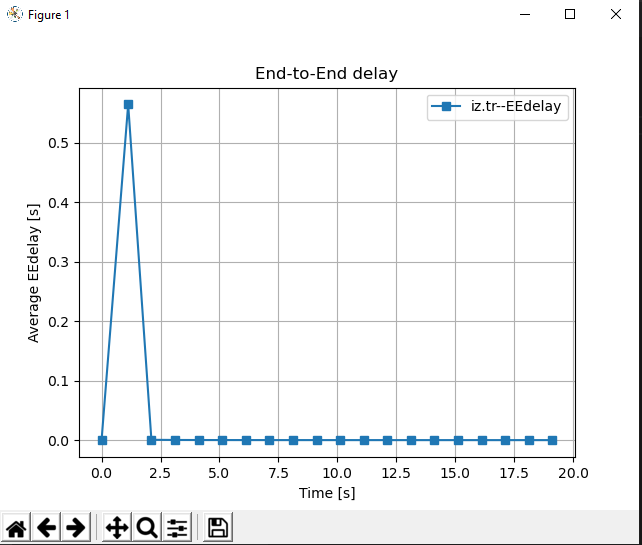
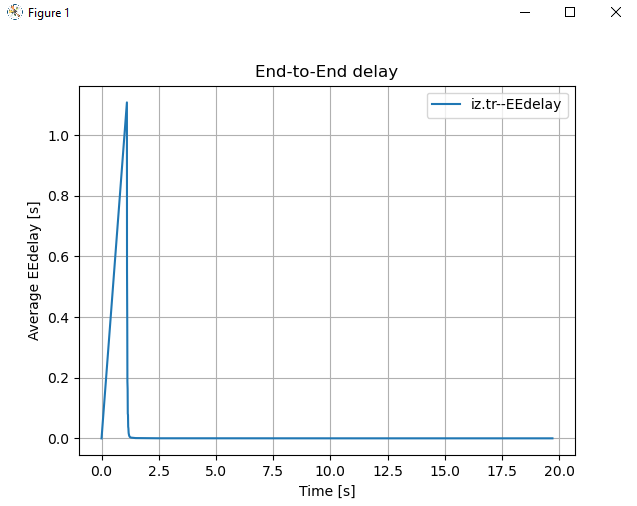
normalized yapıldı

diff --git a/main.py b/main.py
@@ -24,10 +24,8 @@ sadd_idx='$10'
 dadd_idx='$11'
 
 class Eedelay(object):
-       
-    
     #initialization
-    def __init__(self,filename,receiver_node):
+    def __init__(self,filename):
         """Initialises a Eedelay
 
         Arguments:
@@ -44,7 +42,10 @@ class Eedelay(object):
             #filename with directory
             self.legend=filename+'--EEdelay'
             self.filename=directory+'/'+filename
-        self.receiver_node=receiver_node
+            self.rc1='1' 
+            self.rc2='16'
+            self.rc3='20' 
+            self.rc4='21' 
         
         #network parameters
         self.ptype1='tcp' #for tcp packet
@@ -76,7 +77,8 @@ class Eedelay(object):
             #network parameter    
             for record in reader:
                 #for receiver node
-                if((record[event_idx]==self.event) and ((record[ptype_idx]==self.ptype1)or (record[ptype_idx]==self.ptype2)) and ((record[rc_idx]==self.receiver_node)) ):
+                if((record[event_idx]==self.event) and ((record[ptype_idx]==self.ptype1)or (record[ptype_idx]==self.ptype2)) 
+                   and ((record[rc_idx]==self.rc1) or (record[rc_idx]==self.rc2) or (record[rc_idx]==self.rc3) or (record[rc_idx]==self.rc4)) ):
                     time=float(record[time_idx])
                     interval=time-oldtime
                     cum_interval+=interval
@@ -155,7 +157,7 @@ class Eedelay(object):
 class Pdr(object):
     
     #initialization
-    def __init__(self,filename,receiver_node):
+    def __init__(self,filename):
         """Initialises a Pdr
         :Packet delivery ratio
         
@@ -174,7 +176,7 @@ class Pdr(object):
             self.legend=filename+'--PDR'
             self.filename=directory+'/'+filename
 
-        self.receiver_node=receiver_node
+        
         
         #network parameters
         self.ptype1='tcp' #for tcp packet
@@ -314,3 +316,169 @@ class Pdr(object):
         plt.pause(1)
         #plt.close()
         
+#Normalized Routing Load : NRL
+class Nrl(object):
+    
+    #initialization
+    def __init__(self,filename,routing_packet):
+        """Initialises a Nrl
+        :Normalized routing load
+        
+        Arguments:
+        filename -- the name of the trace file ex:out.tr
+        receiver_node --the name of receiver node to compute NRL
+
+        """
+        if (filename[0]=='/'):
+             self.filename=filename
+             self.legend=filename+'--NRL'
+        else:
+            directory=os.getcwd()
+            #filename with directory
+            self.legend=filename+'--NRL'
+            self.filename=directory+'/'+filename
+       
+        #network parameters
+        self.ptype1='tcp' #for tcp packet
+        self.ptype2='cbr' #for cbr packet
+        #routing packet
+        self.routing_packet=routing_packet
+      
+        #event
+        self.received='r' #recevied event
+        
+        #data array
+        self.nrl_array=[0]
+        self.time_array=[0]
+
+        self.route_counter_array=[]
+        self.delivery_counter_array=[]
+        #sample
+        self.nrl_sample=[0]
+        self.time_sample=[0]
+        #pdr value
+        self.value=0
+        self._step=0
+        self._compute_nrl()
+        self.sample()
+
+    def _compute_nrl(self):
+        """Compute Normalized routing load in each simulation step and put it in EEdelay array
+            NRL=No.Routed packet/No. Delivery packet
+        """        
+        with awk.Reader(self.filename) as reader:
+            #old_time, time, interval and cum_interval initialization
+            oldtime=0.0
+            time=0.0
+            interval=0.0        
+            cum_interval=0.0
+
+            #packet counter
+            route_counter=0
+            delivery_counter=0
+            
+            #redefine nrl_array
+            self.nrl_array=[]
+            #redefine time_array
+            self.time_array=[]
+
+            #redefine data array
+            self.route_counter_array=[]
+            self.delivery_counter_array=[]
+            
+            for record in reader:
+                #getting time and packet size
+                time=float(record[time_idx])
+                
+                interval=time-oldtime
+                cum_interval+=interval
+                oldtime=time
+
+                self.time_array.append(cum_interval)
+                #Average throughput computing
+                if((record[event_idx]==self.received) and (record[ptype_idx]==self.ptype1 or record[ptype_idx]==self.ptype2)):
+                    delivery_counter+=1
+                    self.delivery_counter_array.append(delivery_counter)
+                else:
+                    self.delivery_counter_array.append(delivery_counter)
+
+                if((record[event_idx]==self.received) and (record[ptype_idx]==self.routing_packet)):
+                    route_counter+=1
+                    self.route_counter_array.append(route_counter)
+                else:
+                    self.route_counter_array.append(route_counter)
+                if (delivery_counter==0):
+                    self.nrl_array.append(0)
+                else:
+                    self.nrl_array.append(route_counter/delivery_counter)
+                    #setting value
+                    self.value=route_counter/delivery_counter
+    
+    #sampling function
+    def sample(self, *step):
+        """Sampling data, by default sampling step is 1 sec
+        """
+        try:
+            stp=float(step[0])
+        except:
+            stp=0.0
+
+        if stp==0.0:
+            stp=1
+        else:
+            stp=stp
+        
+        self._step=stp   
+    
+        #sampling value initialization
+        self.nrl_sample=[0]
+        self.time_sample=[0]
+
+        idx=0
+        oldtime=0
+        for timesample in self.time_array:
+            interval=timesample-oldtime
+            idx+=1
+            if interval>=self._step:
+                oldtime=timesample
+                
+                self.time_sample.append(timesample)
+                #nrl sample
+                self.nrl_sample.append(self.nrl_array[idx])
+
+    #plot fonction
+    def plot(self,*argv):
+        """plot data
+
+        Arguments:
+        as matplotlib
+        """
+        #test sampling
+        try:
+            var=float(self.time_sample[3])
+        except:
+            var=-1
+        if (var!=-1):
+            #plot sample
+            try:
+                _arg=list(argv)
+                args=_arg[0]
+            except:
+                args='s-'
+            plt.plot(self.time_sample,self.nrl_sample,args,label=self.legend)
+        else:
+            #plot array
+            try:
+                _arg=list(argv)
+                args=_arg[0]
+                plt.plot(self.time_array,self.nrl_array,args,label=self.legend)
+            except :
+                plt.plot(self.time_array,self.nrl_array,label=self.legend)
+        plt.title('Normalized Routing Load [NRL]')
+        plt.xlabel('Time [s]')
+        plt.ylabel('NRL')
+        plt.grid(True)
+        plt.legend()
+        plt.draw()
+        plt.pause(1)
+        #plt.close()          

diff --git a/packetDeliveryRatio.py b/packetDeliveryRatio.py
@@ -1,6 +1,6 @@
 #Paket Teslim Oranı
 import main as tr
 #Dosya okutma
-pdr1=tr.Pdr('iz.tr','21')
+pdr1=tr.Pdr('iz.tr')
 pdr1.sample()
-pdr1.plot('sr-') ,
+pdr1.plot('sr-')

diff --git a/endToEndDelay.py b/endToEndDelay.py
@@ -1,6 +1,3 @@
 import main as tr
-
-
-eedelay = tr.Eedelay('iz.tr','21')
-eedelay.sample()
+eedelay = tr.Eedelay('iz.tr')
 eedelay.plot()

diff --git a/normalized.py b/normalized.py
@@ -1,0 +1,5 @@
+import main as tr
+
+nrl = tr.Nrl("iz.tr","tcp")
+nrl.sample()
+nrl.plot()
